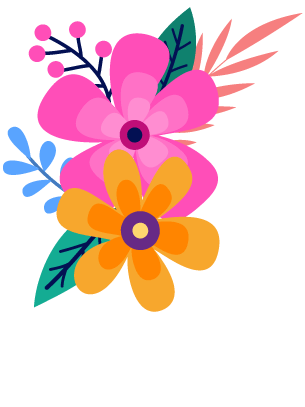
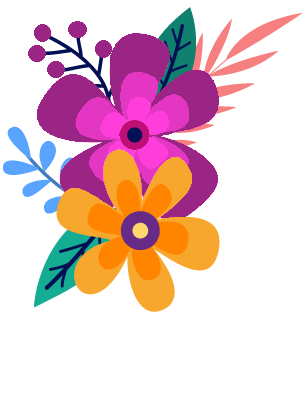
color buganvilla

Changed region(s): [[0.118, 0.059, 0.7377, 0.5602], [0.0885, 0.059, 0.177, 0.1474], [0.2066, 0.0295, 0.2951, 0.1179]]

diff --git a/Index.html b/Index.html
@@ -91,9 +91,8 @@
 
       <div class="modal-body text-center">
 
-        <picture>          
-          <source type="image/png" srcset="./img/inicial_arriba.png">
-          <img class="adorno adorno-1" src="./files/Grupo_PopUpMusica.png" alt="" loading="lazy">
+        <picture>                    
+          <img class="adorno adorno-1" src="./img/inicial_arriba.png" alt="" loading="lazy">
         </picture>
 
         <p class="bienvenida-modal-musica">
@@ -116,9 +115,8 @@
           
         </div>
 
-        <picture>          
-          <source type="image/png" srcset="./img/inicial_abajo.png">
-          <img class="adorno adorno-2" src="./files/Grupo_PopUpMusica-2.png" alt="" loading="lazy">
+        <picture>
+          <img class="adorno adorno-2" src="./img/inicial_abajo.png" alt="" loading="lazy">
         </picture>
 
         <!--<br>

diff --git a/files/style.css b/files/style.css
@@ -3,7 +3,8 @@
 :root {
 
   /* Paleta colores */
-  --color-pallete-1: #4d4d4d;
+  /*--color-pallete-1: #4d4d4d;*/
+  --color-pallete-1: #303030;
   --color-pallete-2: #6f0e01;
   --color-pallete-3: #ffb880;
   --color-pallete-4: #7c7d4f;
@@ -18,7 +19,11 @@
   --color-13: #0f816e;
   --color-14: #f5f5f5;
   --color-15: #ffffff;
-  --color-16: #FF4EB8;
+  /*--color-16: #FF4EB8;*/
+  --color-16: #9B2585;
+  --color-17: #BF2EA4;
+  --color-18: #E336C3;
+  --color-19: #FF3DDB;
   
 
   /* ----------------------- */
